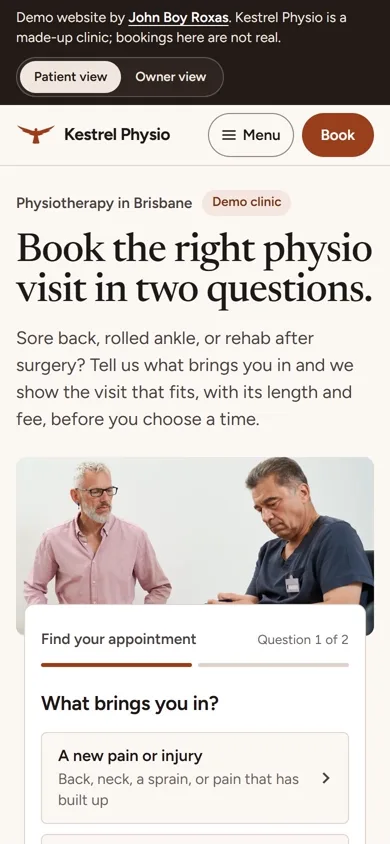
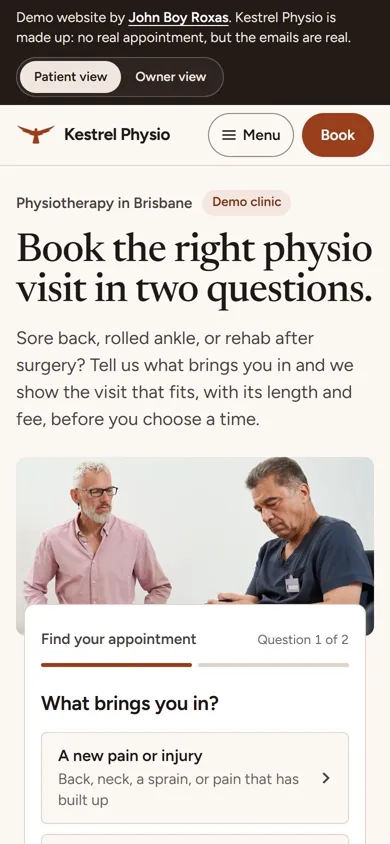
Kestrel screenshots retaken after the G3 fixes: Brisbane time on the calendar, the shorter demo line, Owner view for the Owner block

Changed region(s): [[0.1231, 0.0, 0.8923, 0.0616]]

diff --git a/src/lib/work.ts b/src/lib/work.ts
@@ -63,7 +63,7 @@ const KESTREL: DemoDetail = {
     ["6", "Pages"],
     ["5", "Live calendars"],
     ["3", "Workflows"],
-    ["2", "Reminders per booking"],
+    ["2", "Reminder times"],
   ],
   pieces: [
     {
@@ -123,7 +123,7 @@ const KESTREL: DemoDetail = {
   ],
   owner: {
     text: "Every page on the live site has an Owner view switch. It shows what each part does behind the scenes and how it's built, so a buyer sees the system, not just the design.",
-    img: "/work/demos/kestrel-first-800.webp",
+    img: "/work/demos/kestrel-owner-800.webp",
     href: KESTREL_URL,
   },
 };
